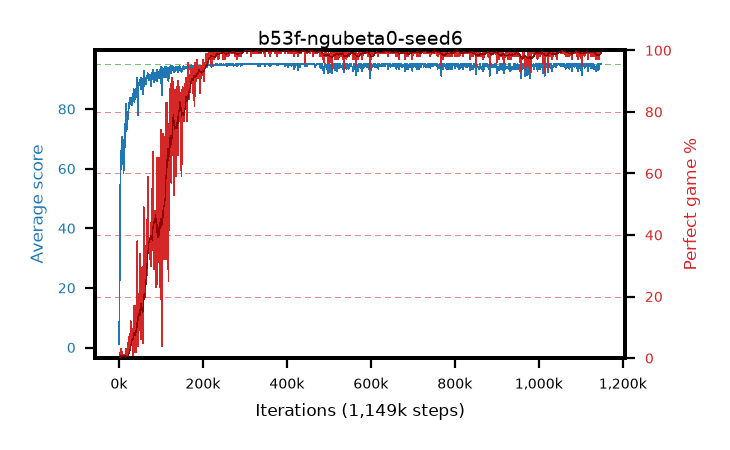
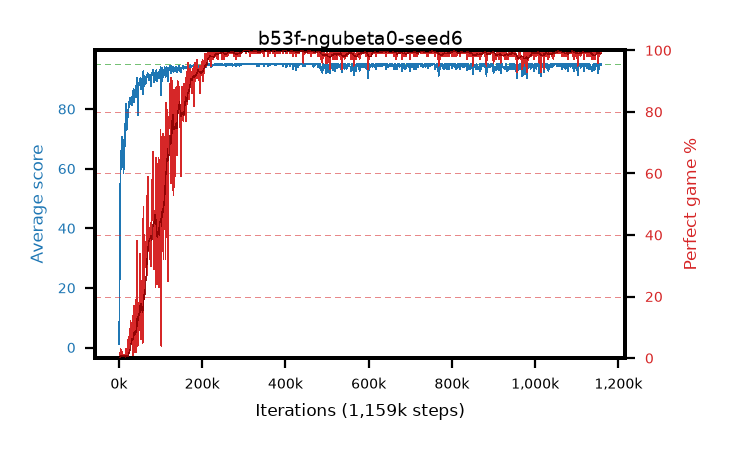
live pictures of 4 arm(s)

diff --git a/results/b53h-ngubeta0-seed8/b53h-ngubeta0-seed8.md b/results/b53h-ngubeta0-seed8/b53h-ngubeta0-seed8.md
@@ -1,6 +1,6 @@
 # b53h-ngubeta0-seed8
 
-step **1,169,000** · 1169 evals · trailing **94.49** · peak **94.92** @356,000 · sef **92.0** · best30 **99.7** @539,000
+step **1,179,000** · 1179 evals · trailing **94.31** · peak **94.92** @356,000 · sef **92.0** · best30 **99.7** @539,000
 
 ## Config
 
@@ -80,15 +80,15 @@ step **1,169,000** · 1169 evals · trailing **94.49** · peak **94.92** @356,00
 | 2000 | 50.19 | 26.7 | 2.0 | 95.0 | 51.185 | 6.0 | 0.4 |
 | 3000 | 57.71 | 37.03 | 27.0 | 95.0 | 54.481 | 2.0 | 0.4 |
 | ... | ... | ... | ... | ... | ... | ... | ... |
-| 1158000 | 93.44 | 94.62 | 23.0 | 95.0 | 189.101 | 97.0 | 0.4 |
-| 1159000 | 94.87 | 94.61 | 85.0 | 95.0 | 191.648 | 98.0 | 0.4 |
-| 1160000 | 95.0 | 94.64 | 95.0 | 95.0 | 193.779 | 100.0 | 0.4 |
-| 1161000 | 94.21 | 94.64 | 16.0 | 95.0 | 191.941 | 99.0 | 0.4 |
-| 1162000 | 93.5 | 94.59 | 23.0 | 95.0 | 188.199 | 96.0 | 0.4 |
-| 1163000 | 94.24 | 94.56 | 21.0 | 95.0 | 190.929 | 98.0 | 0.4 |
-| 1164000 | 95.0 | 94.56 | 95.0 | 95.0 | 193.78 | 100.0 | 0.4 |
-| 1165000 | 93.48 | 94.51 | 17.0 | 95.0 | 190.184 | 98.0 | 0.4 |
-| 1166000 | 94.91 | 94.51 | 86.0 | 95.0 | 192.687 | 99.0 | 0.4 |
-| 1167000 | 95.0 | 94.51 | 95.0 | 95.0 | 193.787 | 100.0 | 0.4 |
 | 1168000 | 95.0 | 94.53 | 95.0 | 95.0 | 193.781 | 100.0 | 0.4 |
 | 1169000 | 92.83 | 94.49 | 20.0 | 95.0 | 188.497 | 97.0 | 0.4 |
+| 1170000 | 93.42 | 94.43 | 8.0 | 95.0 | 190.123 | 98.0 | 0.4 |
+| 1171000 | 91.88 | 94.33 | 22.0 | 95.0 | 184.512 | 94.0 | 0.4 |
+| 1172000 | 94.38 | 94.36 | 33.0 | 95.0 | 192.112 | 99.0 | 0.4 |
+| 1173000 | 93.63 | 94.32 | 25.0 | 95.0 | 190.332 | 98.0 | 0.4 |
+| 1174000 | 93.5 | 94.29 | 16.0 | 95.0 | 190.199 | 98.0 | 0.4 |
+| 1175000 | 94.13 | 94.26 | 8.0 | 95.0 | 191.873 | 99.0 | 0.4 |
+| 1176000 | 93.55 | 94.26 | 19.0 | 95.0 | 190.241 | 98.0 | 0.4 |
+| 1177000 | 94.94 | 94.26 | 89.0 | 95.0 | 192.726 | 99.0 | 0.4 |
+| 1178000 | 94.97 | 94.28 | 92.0 | 95.0 | 192.708 | 99.0 | 0.4 |
+| 1179000 | 95.0 | 94.31 | 95.0 | 95.0 | 193.777 | 100.0 | 0.4 |

diff --git a/results/b53f-ngubeta0-seed6/b53f-ngubeta0-seed6.md b/results/b53f-ngubeta0-seed6/b53f-ngubeta0-seed6.md
@@ -1,6 +1,6 @@
 # b53f-ngubeta0-seed6
 
-step **1,149,000** · 1149 evals · trailing **94.4** · peak **94.99** @323,000 · sef **88.3** · best30 **99.8** @323,000
+step **1,159,000** · 1159 evals · trailing **94.31** · peak **94.99** @323,000 · sef **88.4** · best30 **99.8** @323,000
 
 ## Config
 
@@ -80,15 +80,15 @@ step **1,149,000** · 1149 evals · trailing **94.4** · peak **94.99** @323,000
 | 2000 | 35.17 | 18.16 | 10.0 | 67.0 | 29.965 | 0.0 | 0.4 |
 | 3000 | 47.63 | 27.98 | 1.0 | 93.0 | 42.642 | 0.0 | 0.4 |
 | ... | ... | ... | ... | ... | ... | ... | ... |
-| 1138000 | 94.32 | 94.41 | 30.0 | 95.0 | 191.064 | 98.0 | 0.4 |
-| 1139000 | 94.16 | 94.42 | 11.0 | 95.0 | 191.907 | 99.0 | 0.4 |
-| 1140000 | 95.0 | 94.42 | 95.0 | 95.0 | 193.779 | 100.0 | 0.4 |
-| 1141000 | 93.11 | 94.38 | 22.0 | 95.0 | 188.774 | 97.0 | 0.4 |
-| 1142000 | 93.41 | 94.33 | 13.0 | 95.0 | 190.117 | 98.0 | 0.4 |
-| 1143000 | 93.36 | 94.27 | 18.0 | 95.0 | 189.063 | 97.0 | 0.4 |
-| 1144000 | 95.0 | 94.3 | 95.0 | 95.0 | 193.783 | 100.0 | 0.4 |
-| 1145000 | 95.0 | 94.3 | 95.0 | 95.0 | 193.793 | 100.0 | 0.4 |
-| 1146000 | 95.0 | 94.3 | 95.0 | 95.0 | 193.79 | 100.0 | 0.4 |
-| 1147000 | 95.0 | 94.37 | 95.0 | 95.0 | 193.777 | 100.0 | 0.4 |
 | 1148000 | 95.0 | 94.4 | 95.0 | 95.0 | 193.777 | 100.0 | 0.4 |
 | 1149000 | 95.0 | 94.4 | 95.0 | 95.0 | 193.786 | 100.0 | 0.4 |
+| 1150000 | 93.36 | 94.34 | 10.0 | 95.0 | 190.071 | 98.0 | 0.4 |
+| 1151000 | 92.15 | 94.27 | 17.0 | 95.0 | 186.792 | 96.0 | 0.4 |
+| 1152000 | 95.0 | 94.3 | 95.0 | 95.0 | 193.79 | 100.0 | 0.4 |
+| 1153000 | 95.0 | 94.3 | 95.0 | 95.0 | 193.773 | 100.0 | 0.4 |
+| 1154000 | 93.51 | 94.25 | 14.0 | 95.0 | 190.211 | 98.0 | 0.4 |
+| 1155000 | 94.97 | 94.29 | 92.0 | 95.0 | 192.718 | 99.0 | 0.4 |
+| 1156000 | 94.98 | 94.29 | 93.0 | 95.0 | 192.76 | 99.0 | 0.4 |
+| 1157000 | 95.0 | 94.29 | 95.0 | 95.0 | 193.779 | 100.0 | 0.4 |
+| 1158000 | 95.0 | 94.31 | 95.0 | 95.0 | 193.787 | 100.0 | 0.4 |
+| 1159000 | 94.91 | 94.31 | 86.0 | 95.0 | 192.691 | 99.0 | 0.4 |
